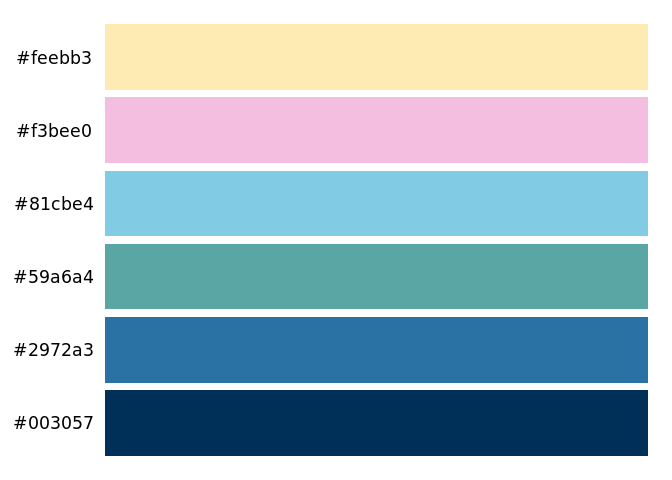
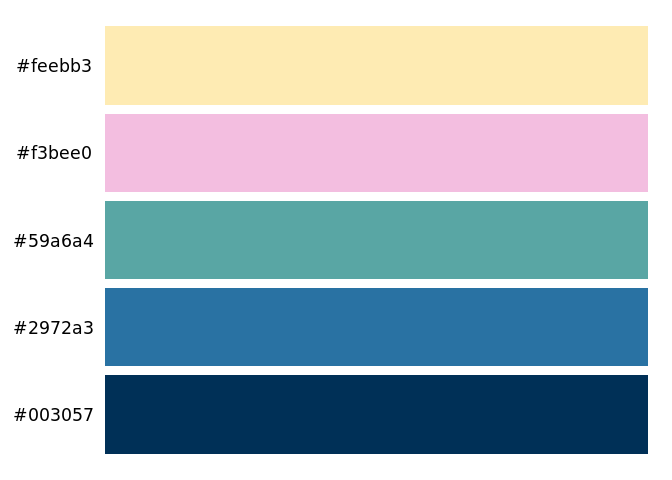
Edit readme

diff --git a/README.md b/README.md
@@ -8,18 +8,17 @@
 <!-- badges: end -->
 
 mojchart is an R package to help with formatting charts in ggplot2. It
-includes colour schemes based on [MoJ corporate
-branding](https://intranet.justice.gov.uk/guidance/communications/branding-templates/)
-and a theme function based on [Government Statistical Service (GSS)
-guidance](https://gss.civilservice.gov.uk/policy-store/introduction-to-data-visualisation/).
+includes a theme function based on [Government Statistical Service (GSS)
+guidance](https://gss.civilservice.gov.uk/policy-store/introduction-to-data-visualisation/)
+and colour schemes based on [MoJ corporate
+branding](https://intranet.justice.gov.uk/guidance/communications/branding-templates/).
 
 ## Installation
 
 To install, you need to have set up a GitHub personal access token. For
 details, see the [Analytical Platform
 guidance](https://user-guidance.services.alpha.mojanalytics.xyz/github.html#private-r-packages-on-github-pat-authentication).
-
-Then you can install with:
+You can then install with:
 
 ``` r
 install.packages("devtools")
@@ -30,64 +29,113 @@ devtools::install_github("moj-analytical-services/mojchart")
 
 The package provides the following custom ggplot2 functions:  
 
-  - `scale_colour_moj()` and `scale_fill_moj()` for applying predefined
-    mojchart colour palettes, and  
-  - `theme_gss()` - a theme based on GSS guidance.  
+  - `theme_gss()` - a theme based on GSS guidance;  
+  - `scale_colour_moj()` and `scale_fill_moj()` for applying mojchart
+    colour palettes.
 
-To access palettes and individual colours without using the scale
-functions, use the functions below.  
+To access the package colour palettes without using the scale
+functions:  
 
-  - `mojchart_palette()` returns a colour palette with up to six
-    colours.  
-  - `moj_colours()` provides names and hex codes for MoJ corporate
-    colours.  
-  - `palette_colours()` provides names and hex codes for all colours
-    used in the mojchart palettes.  
+  - `mojchart_palette()` returns a colour palette as a vector.  
 
-See the function help files for details and examples.
+To obtain the hex codes for individual colours:  
+
+  - `moj_colours()` provides MoJ corporate colours;  
+  - `palette_colours()` provides the colours used in the mojchart
+    palettes.  
+
+To preview palettes:
+
+  - `swatch()` displays a preview of a vector of colour hex codes;
+  - `multiswatch()` displays all the palettes comprising a specified
+    colour scheme.
+
+See the function help files for details and examples for all the package
+functions.
+
+## GSS theme
+
+The main principle behind `theme_gss()` is to simplify the chart and
+remove unecessary formatting. The theme allows for a main title plus a
+subtitle for additional statistical details. The data source can be
+shown in the caption below the chart. Illustration charts are shown in
+the examples section below.
+
+Axis labels should be horizontal according to both the GSS guidance and
+[ONS web accessibility
+guidance](https://style.ons.gov.uk/writing-for-the-web/web-accessibility/accessible-charts/).
+To that end, `theme_gss()` suppresses the ggplot2 y axis label; a label
+can instead be included within the ggplot2 subtitle if needed. This is
+demonstrated by the second of the example charts.
+
+`theme_gss()` includes arguments to show or hide the x axis label and x
+axis tick marks. Setting the argument `flipped = TRUE` reverses the x
+and y axes for use with `coord_flip()`.
 
 ## Colour palettes
 
-The package includes several colour schemes for discrete data, split
-into two types: muted and vibrant. The muted schemes are recommended for
-shading areas, such as for bar charts, since they are easier on the eye.
-The vibrant schemes are recommended for lines or points, where vibrant
-colours are easier to distinguish. The vibrant schemes use colours taken
-directly from MoJ corporate branding, whereas the muted colours are
-modified versions with reduced saturation.
+The package provides colour palettes for discrete data, grouped into
+several colour schemes. There are two types of colour scheme: vibrant
+and muted. The vibrant schemes use MoJ corporate colours and are
+recommended for lines or points. The muted schemes are intended for
+shading areas, such as for bar charts, in line with the [GSS guidance on
+the use of
+colour](https://gss.civilservice.gov.uk/policy-store/introduction-to-data-visualisation/#section-9).
+Each colour scheme consists of six palettes, containing from one to six
+colours. Consider the accessibility implications if you need more
+colours than that (see below).
 
-Each colour scheme is comprised of six palettes, for charts needing from
-one to six colours. If you need more colours than this, first consider
-the accessibility implications (see below) and whether there is an
-alternative approach.
-
-The palettes are good for qualitative data, i.e. where there is no
-natural ordering of the categories. For sequential categories or
-continuous data you could look at the [in-built ggplot2
-options](https://ggplot2-book.org/scale-colour.html), or try the
+For sequential palettes or continuous data, you could look at the
+[inbuilt ggplot2 options](https://ggplot2-book.org/scale-colour.html),
+or try the
 [colorspace](https://cran.r-project.org/web/packages/colorspace/vignettes/colorspace.html)
 package.
 
-Use the `swatch()` function to preview a palette.
+To return a palette as a vector, use the `mojchart_palette()` function,
+with the number of colours needed and the name of a colour scheme. The
+`swatch()` function can be used to show a preview.
 
 ``` r
 library(mojchart)
-pal <- mojchart_palette(n = 6, scheme = "muted3")
+pal <- mojchart_palette(n = 5, scheme = "muted3")
 swatch(pal)
 ```
 
 <img src="man/figures/README-swatch-1.png" width="50%" style="display: block; margin: auto;" />
 
-Use the `multiswatch()` function to view a complete scheme. All of the
-schemes are shown [here](man/additional-documentation/schemes.md).
+   
+`scheme_names()` shows the available colour schemes.
 
-#### Accessibility
+``` r
+scheme_names()
+#> [1] "muted1"   "muted2"   "muted3"   "vibrant1" "vibrant2"
+```
 
-The mojchart palettes are designed to be accessible to those with the
-most common forms of colour blindness, but there are trade-offs and they
-aren’t perfect. Using as few colours as possible is the safest option.
-The fewer colours you use, the easier they will be to distinguish for
-all users.
+The `multiswatch()` function shows all the palettes within a scheme, as
+shown [here](man/additional-documentation/schemes.md) for each scheme.
+
+`scale_colour_moj()` and `scale_fill_moj()` can be used to apply a
+palette to a ggplot2 chart, as shown in the examples section below.
+
+## Accessing individual colours
+
+`moj_colours()` provides the hex codes for all MoJ corporate colours.
+`palette_colours()` provides the colours used in the mojchart palettes.
+Running either function with no arguments returns a vector containing
+all the function’s colours. Passing the names of individual colours
+returns just those.
+
+``` r
+moj_colours("mojblue", "mojgreen")
+#>   mojblue  mojgreen 
+#> "#1d609d" "#30aa51"
+```
+
+## Accessibility
+
+The mojchart palettes aim to be accessible to those with the most common
+forms of colour blindness, but accessibility does decrease the more
+colours you use.
 
 Additionally, note the following from the GSS guidance:
 
@@ -95,57 +143,37 @@ Additionally, note the following from the GSS guidance:
 > documents in black and white. Some people are colour-blind. It’s
 > important not to rely on colour alone to add meaning to your data.
 
-Similar points are made in web accessibility guidance from both the
-[Office for National Statistics
+Similar points are made in web accessibility guidance from the [Office
+for National Statistics
 (ONS)](https://style.ons.gov.uk/writing-for-the-web/web-accessibility/accessible-charts/)
 and the [Government Digital Service
 (GDS)](https://www.gov.uk/service-manual/helping-people-to-use-your-service/understanding-wcag).
 
-For line charts, the GSS guidance recommends that you label lines
-directly where possible. The
-[directlabels](http://directlabels.r-forge.r-project.org/) package is
-one way to implement this in R. It is easier for users to interpret a
-chart if they don’t have to decode categories by referring to a legend.
+For line charts, the GSS recommends labelling lines directly where
+possible rather than using a legend. The
+[directlabels](http://directlabels.r-forge.r-project.org/) package
+provides one way to implement this in R.
 
-Below are couple of useful websites to check colour-blindness
-accessibility.  
-<https://www.color-blindness.com/coblis-color-blindness-simulator/>  
-<https://davidmathlogic.com/colorblind/>
+Below are two resources to help assess colour-blindness accessibility.  
 
-## GSS theme
-
-The main principle behind the GSS theme is to simplify the chart and
-remove unecessary formatting. The theme allows for a main title plus a
-subtitle for additional statistical details. The caption below the chart
-is for the data source.
-
-Horizontal labels are recommended by both the GSS guidance and ONS web
-accessibility guidance. To that end, `theme_gss()` suppresses the
-ggplot2 y axis label, with the intention that, if a label is needed, it
-should be included within the ggplot subtitle, as demonstrated for the
-example charts below.
-
-`theme_gss()` includes convenience arguments to show the x axis label
-and tick marks. Setting the argument `flipped = TRUE` reverses the x and
-y axes for use with `coord_flip()`. See the function help file for
-details.
+  - To simulate how an image file will appear to individuals with forms
+    of colour-blindness:
+    <https://www.color-blindness.com/coblis-color-blindness-simulator/>.
+  - To simulate the appearance of a palette of colour hex codes:
+    <https://davidmathlogic.com/colorblind/>.
 
 ## Examples
 
-The examples below show how `theme_gss()`, `scale_colour_moj()` and
-`scale_fill_moj()` can be used together with other ggplot2 functions to
-format complete charts.
-
-Note that the data for the charts is produced by the functions
-`familystarts_reduced()` and `bars()`. Those functions provide data with
-a specified number of categories, intended specifically for example
-charts.
+The examples below show the use of `theme_gss()`, `scale_colour_moj()`
+and `scale_fill_moj()`, together with other ggplot2 functions, to format
+complete charts. The data frames for the charts are produced by two
+mojchart functions, `familystarts_reduced()` and `bars()`.
 
 ### Example line chart
 
-  - In this example note that the line size has been increased in
-    geom\_line() so that the colours stand out more, making them easier
-    to distinguish.
+  - In this example note that the line thickness has been increased in
+    `geom_line()` so that the colours stand out more, making the
+    categories easier to identify.
 
 <!-- end list -->
 
